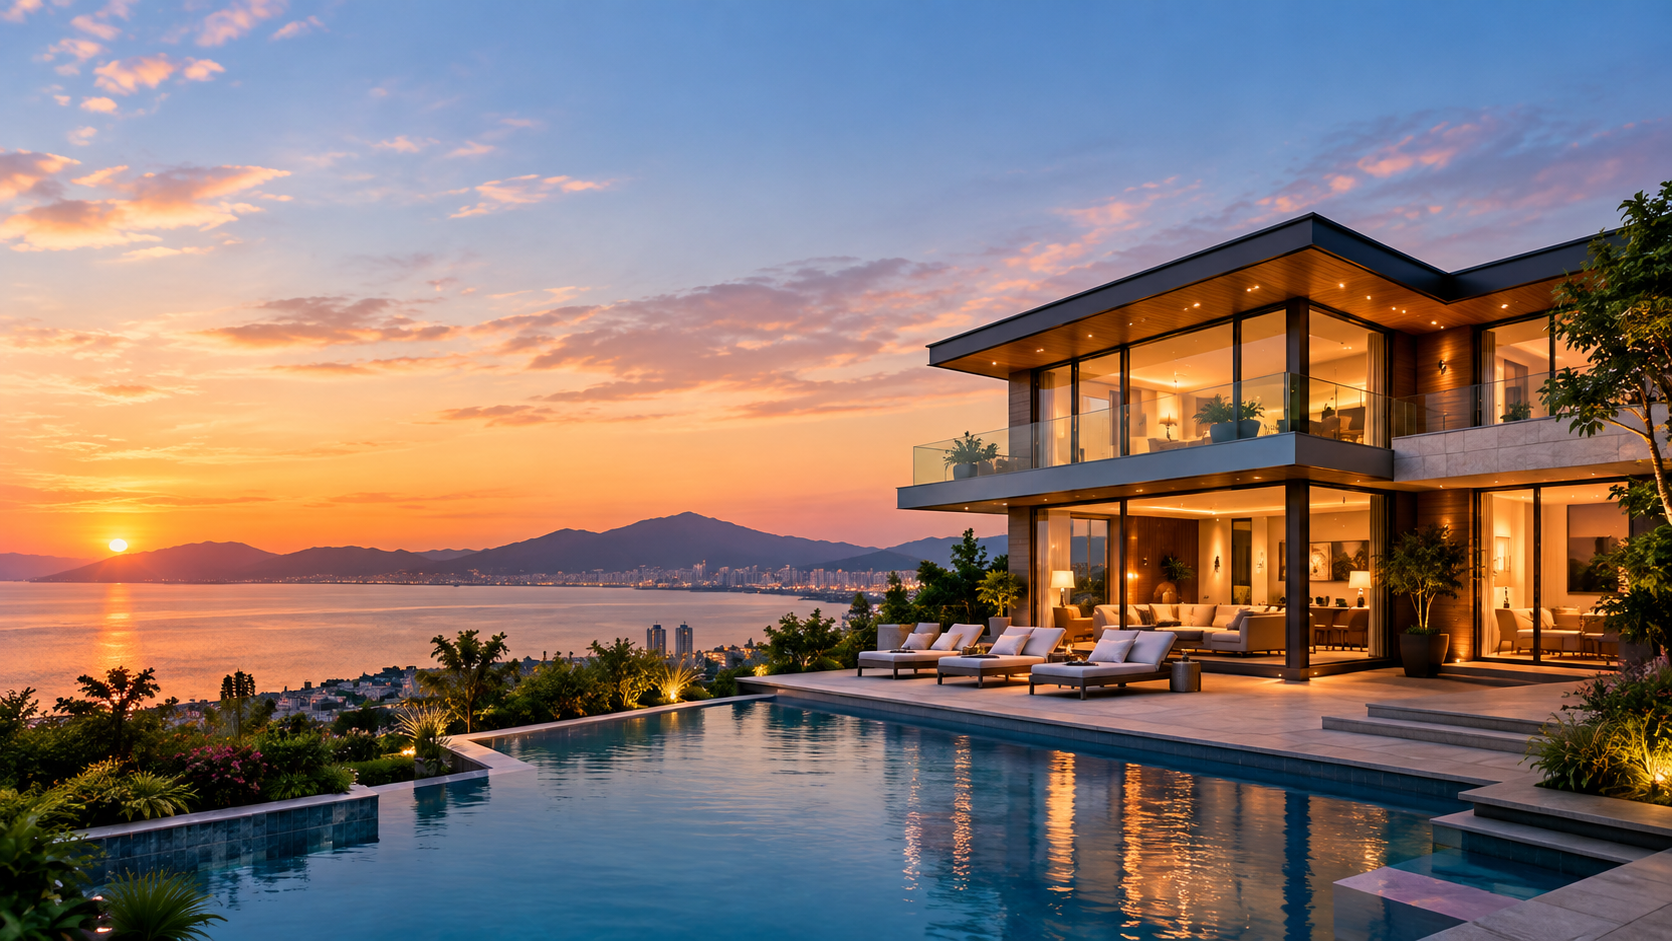
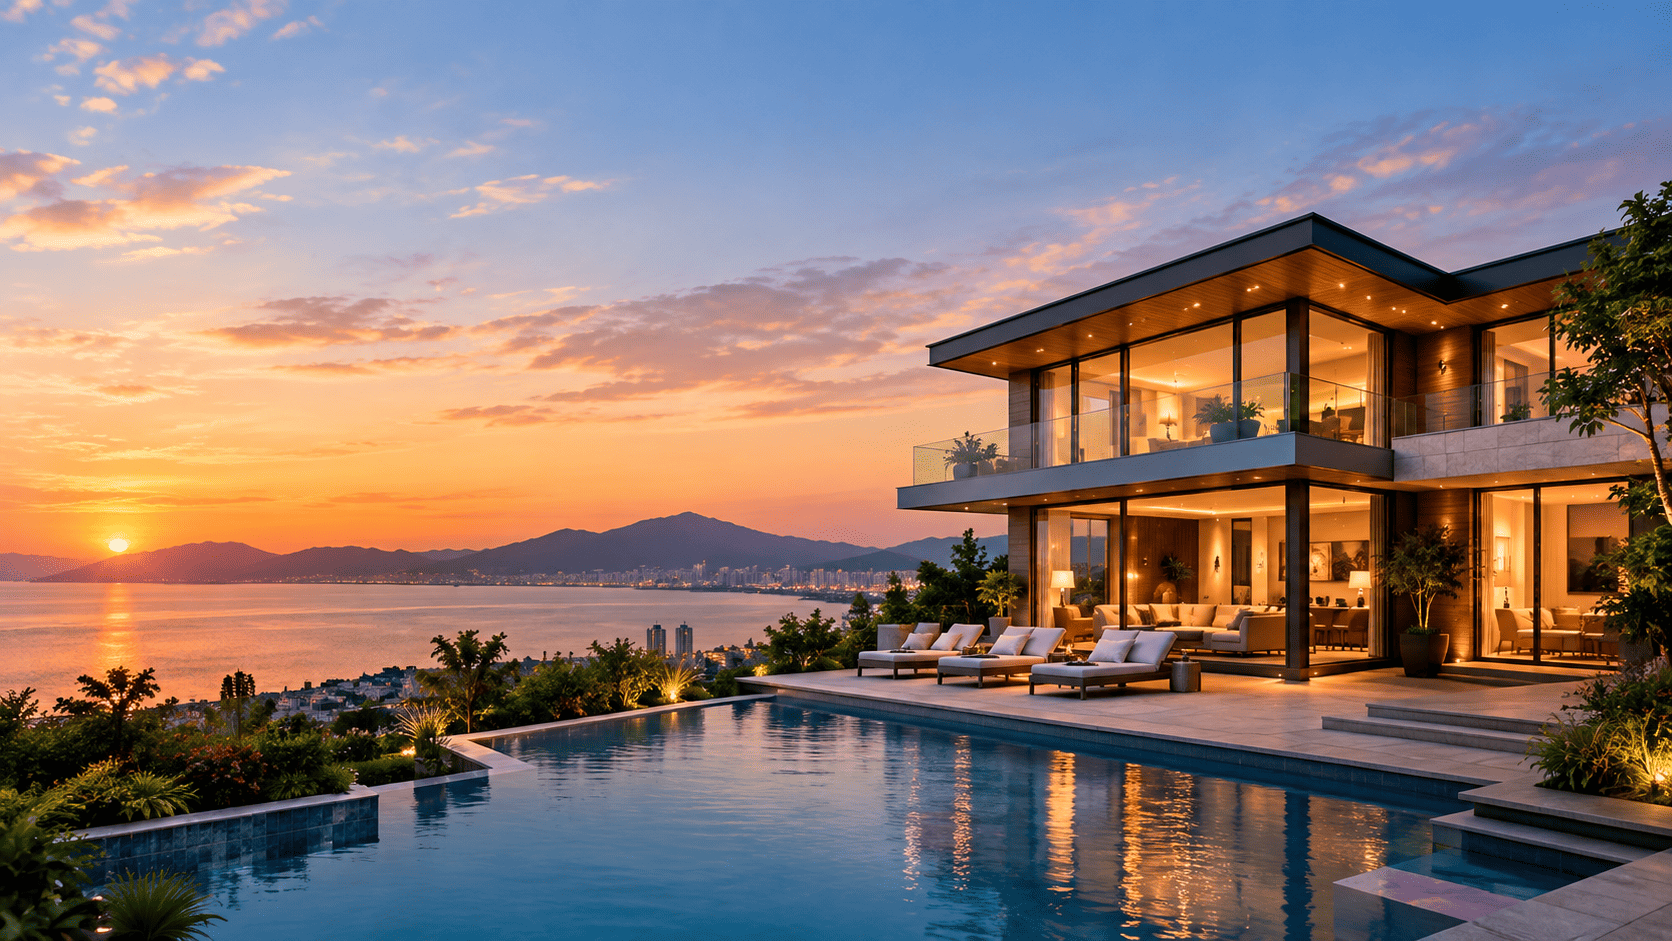
reduce the size of image and add contact us form

diff --git a/index.html b/index.html
@@ -217,17 +217,180 @@
                            transition">
                     Login
                 </button>
-                <button
+                
+<!-- CONTACT BUTTON -->
+				<button
                     class="px-5 py-2 rounded-full
                            bg-[#F57C00]
                            text-white
                            font-semibold
                            shadow-md
                            hover:bg-[#0B2A5B]
-                           transition">
+                           transition" popovertarget="contact">
                     Contact Us
                 </button>
 
+
+<!-- CONTACT POPOVER -->
+<div
+    id="contact"
+    popover
+    class="w-[90%] max-w-lg rounded-2xl border border-gray-200 
+           bg-[#ABCBE2] p-6 shadow-2xl backdrop:bg-black/50
+           open:animate-none">
+
+    <!-- HEADER -->
+    <div class="mb-5 flex items-center justify-between">
+
+        <div>
+            <h2 class="text-2xl font-bold text-gray-900">
+                Contact Us
+            </h2>
+
+            <p class="mt-1 text-sm text-gray-500">
+                Have a question? Send us a message.
+            </p>
+        </div>
+
+        <!-- CLOSE BUTTON -->
+        <button
+            popovertarget="contactPopover"
+            popovertargetaction="hide"
+            class="flex h-9 w-9 items-center justify-center rounded-full 
+                   bg-gray-100 text-gray-600 transition hover:bg-gray-200 
+                   hover:text-black">
+
+            <span class="text-xl">&times;</span>
+        </button>
+
+    </div>
+
+
+    <!-- FORM -->
+    <form class="space-y-4">
+
+        <!-- NAME -->
+        <div>
+            <label
+                for="name"
+                class="mb-1 block text-sm font-medium text-gray-700">
+                Full Name
+            </label>
+
+            <input
+                type="text"
+                id="name"
+                name="name"
+                placeholder="Enter your name"
+                required
+                class="w-full rounded-lg border border-gray-300 px-4 py-3 
+                       text-sm outline-none transition
+                       focus:border-black focus:ring-2 focus:ring-gray-200">
+        </div>
+
+
+        <!-- EMAIL -->
+        <div>
+            <label
+                for="email"
+                class="mb-1 block text-sm font-medium text-gray-700">
+                Email Address
+            </label>
+
+            <input
+                type="email"
+                id="email"
+                name="email"
+                placeholder="Enter your email"
+                required
+                class="w-full rounded-lg border border-gray-300 px-4 py-3 
+                       text-sm outline-none transition
+                       focus:border-black focus:ring-2 focus:ring-gray-200">
+        </div>
+
+
+        <!-- PHONE -->
+        <div>
+            <label
+                for="phone"
+                class="mb-1 block text-sm font-medium text-gray-700">
+                Phone Number
+            </label>
+
+            <input
+                type="tel"
+                id="phone"
+                name="phone"
+                placeholder="Enter your phone number"
+                class="w-full rounded-lg border border-gray-300 px-4 py-3 
+                       text-sm outline-none transition
+                       focus:border-black focus:ring-2 focus:ring-gray-200">
+        </div>
+
+
+        <!-- SUBJECT -->
+        <div>
+            <label
+                for="subject"
+                class="mb-1 block text-sm font-medium text-gray-700">
+                Subject
+            </label>
+
+            <select
+                id="subject"
+                name="subject"
+                class="w-full rounded-lg border border-gray-300 px-4 py-3 
+                       text-sm outline-none transition
+                       focus:border-black focus:ring-2 focus:ring-gray-200">
+
+                <option value="">Select an option</option>
+                <option value="property">Property Inquiry</option>
+                <option value="buy">Buy a Property</option>
+                <option value="sell">Sell a Property</option>
+                <option value="rent">Rent a Property</option>
+                <option value="other">Other</option>
+
+            </select>
+        </div>
+
+
+        <!-- MESSAGE -->
+        <div>
+            <label
+                for="message"
+                class="mb-1 block text-sm font-medium text-gray-700">
+                Message
+            </label>
+
+            <textarea
+                id="message"
+                name="message"
+                rows="4"
+                placeholder="Write your message..."
+                required
+                class="w-full resize-none rounded-lg border border-gray-300 
+                       px-4 py-3 text-sm outline-none transition
+                       focus:border-black focus:ring-2 focus:ring-gray-200"></textarea>
+        </div>
+
+
+        <!-- SUBMIT -->
+        <button
+            type="submit"
+            class="w-full rounded-lg bg-black px-5 py-3 
+                   font-semibold text-white transition duration-300
+                   hover:bg-gray-800 hover:shadow-lg">
+
+            Send Message
+
+        </button>
+
+    </form>
+
+</div>
+
+
+					
             </div>
             <button
                 class="md:hidden text-3xl
@@ -1069,3 +1232,4 @@
 </footer>
 </body>
 </html>
+ 

diff --git a/live.css b/live.css
@@ -52,6 +52,3 @@ nav{
 	transform:rotate(360deg);
 	background-color:#F57C00;
 }
-.pop{
-	display:none;
-}
